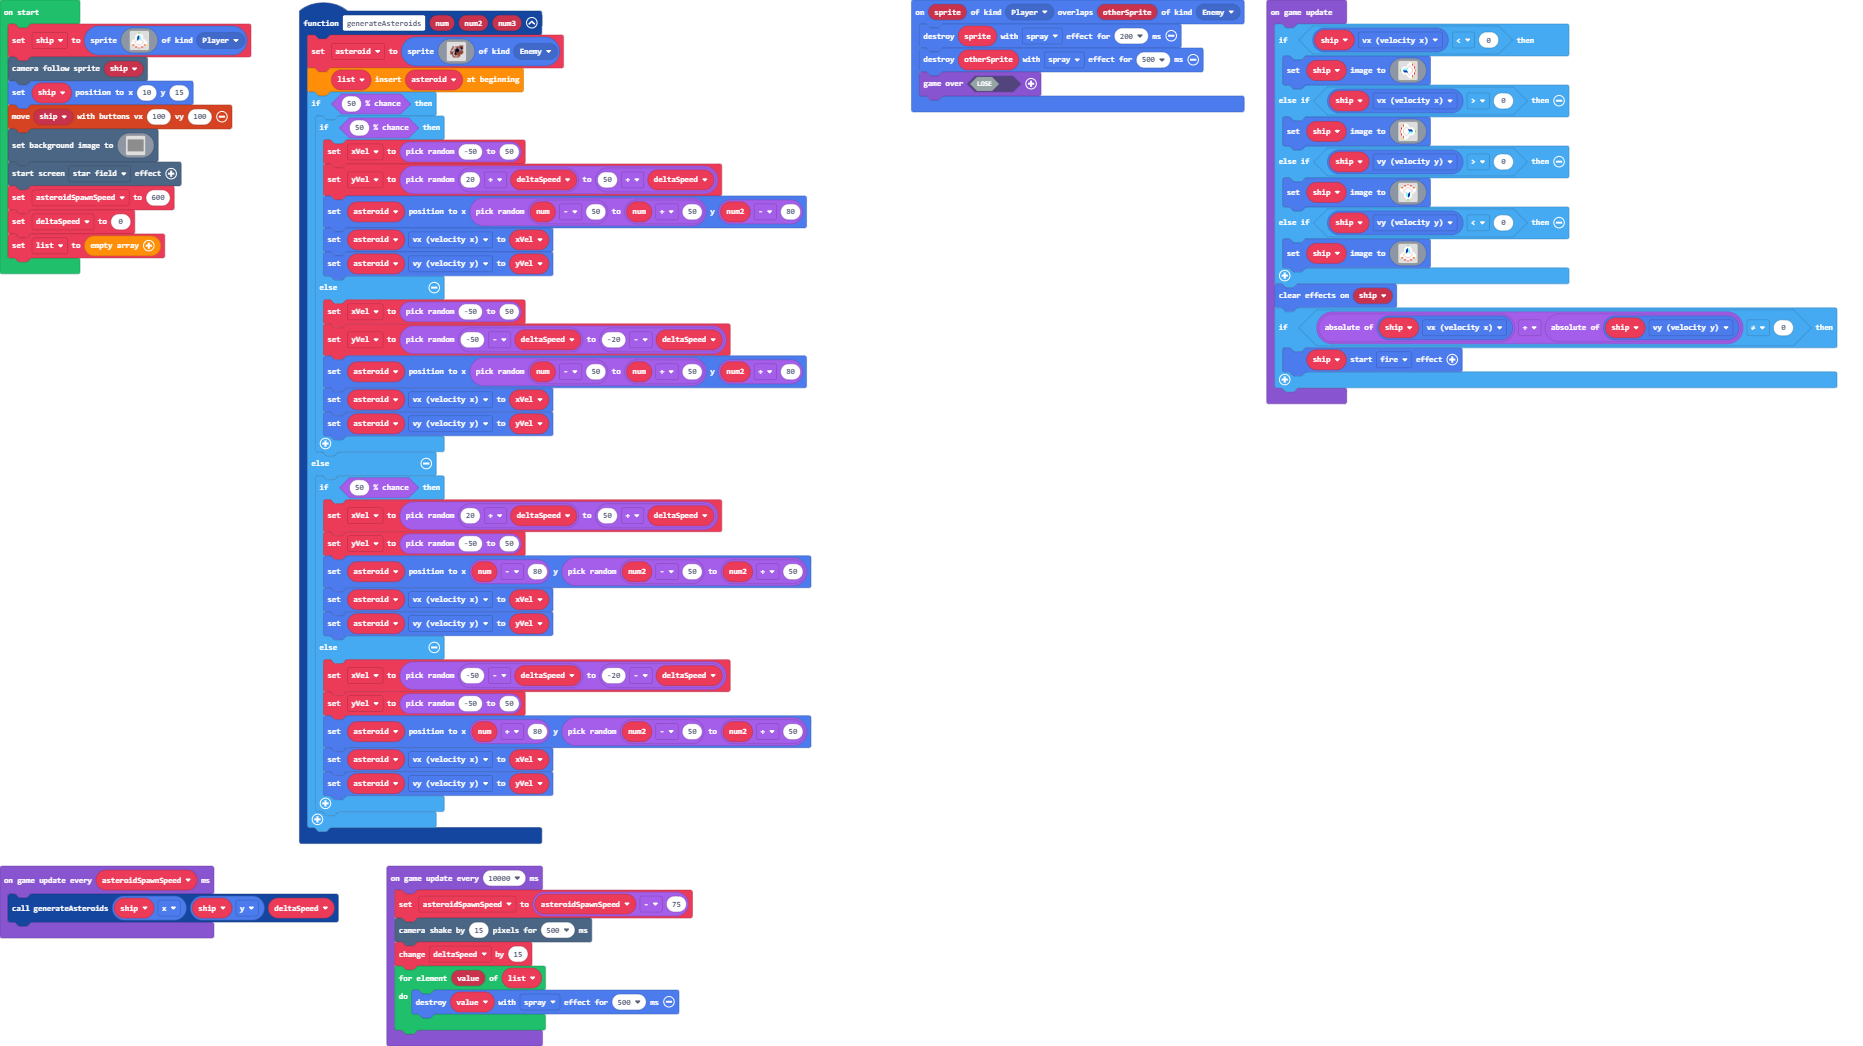
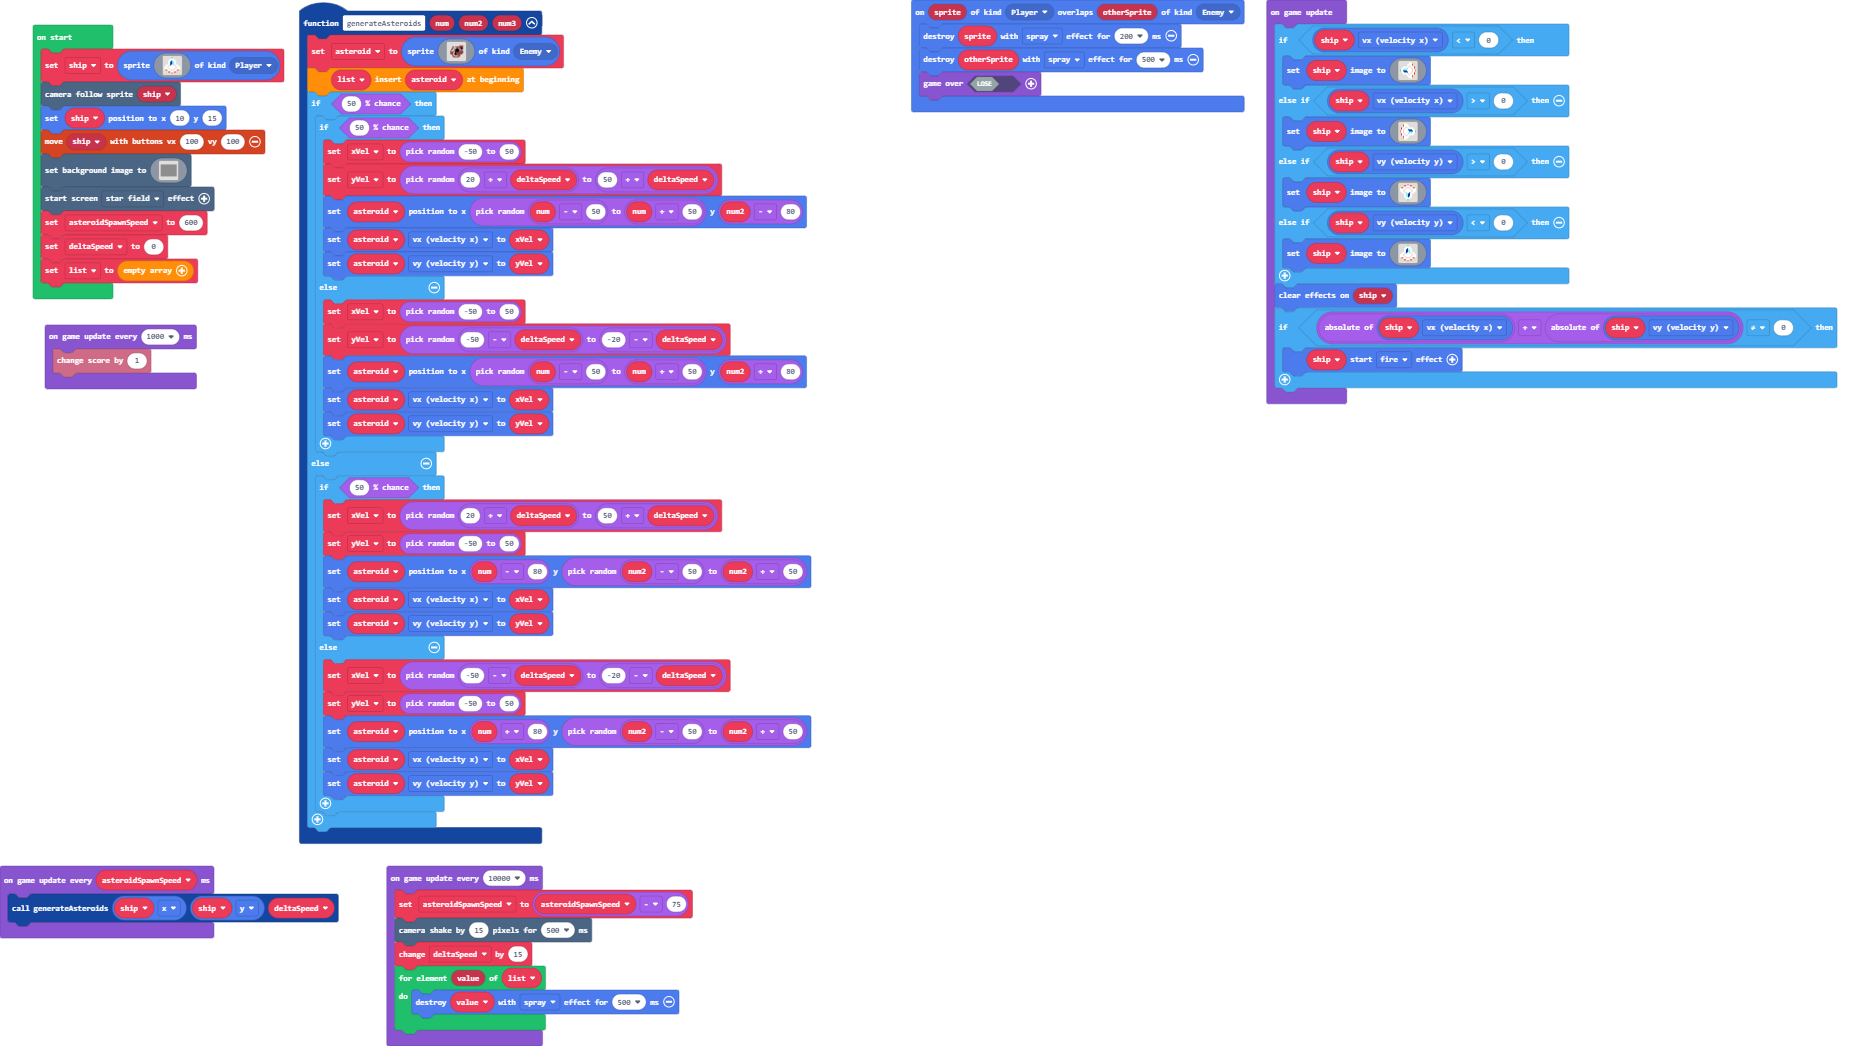
Update main.blocks, main.ts

Changed region(s): [[0.0, 0.0, 0.1557, 0.3977]]

diff --git a/main.ts b/main.ts
@@ -296,6 +296,9 @@ game.onUpdate(function () {
         ship.startEffect(effects.fire)
     }
 })
+game.onUpdateInterval(1000, function () {
+    info.changeScoreBy(1)
+})
 game.onUpdateInterval(asteroidSpawnSpeed, function () {
     generateAsteroids(ship.x, ship.y, deltaSpeed)
 })
